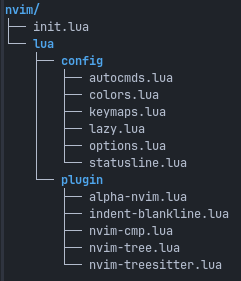
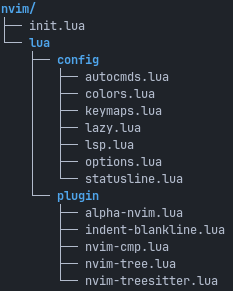
Update LSP configuration
Small change:

Added 'lsp.lua' file.  This file contains the function 'vim-.lsp.enable()' which loads the config files of the language servers (such as bashls, lua_ls etc.), once present in the init.lua file.

Change img/dir-tree, init.lua files.

Changed region(s): [[0.2403, 0.1708, 0.9614, 0.9964], [0.0, 0.0, 0.3906, 0.6833]]

diff --git a/README.md b/README.md
@@ -79,6 +79,8 @@ See: [neovim.io/doc/user/lua-guide/#_lua-modules](https://neovim.io/doc/user/lua
 
 * [lazy.lua](nvim/lua/config/lazy.lua): Plugin manager configuration file
 
+* [lsp.lua](nvim/lua/config/lsp.lua): Load LSP modules
+
 * [options.lua](nvim/lua/config/options.lua): General Neovim settings
 
 * [statusline.lua](nvim/lua/config/statusline.lua): Statusline configuration file
